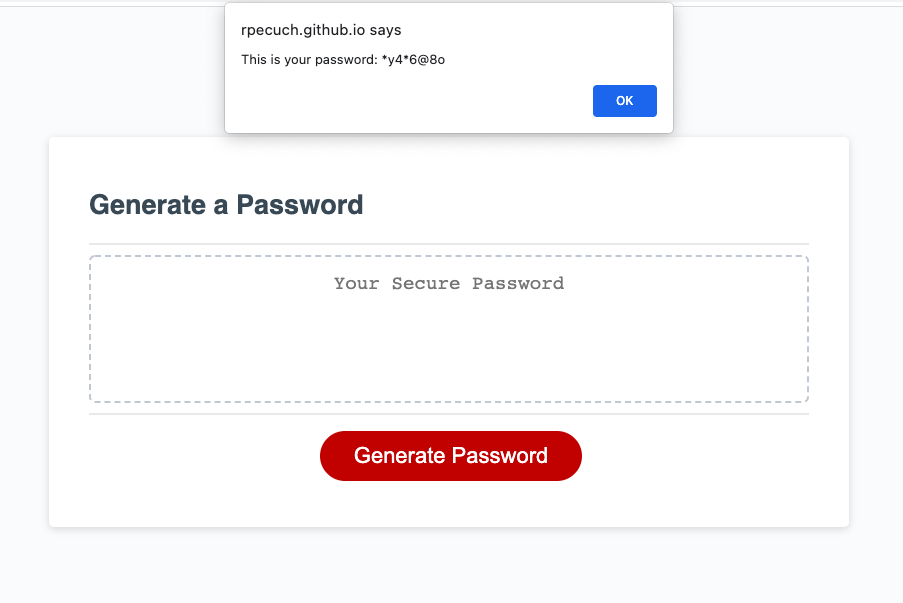
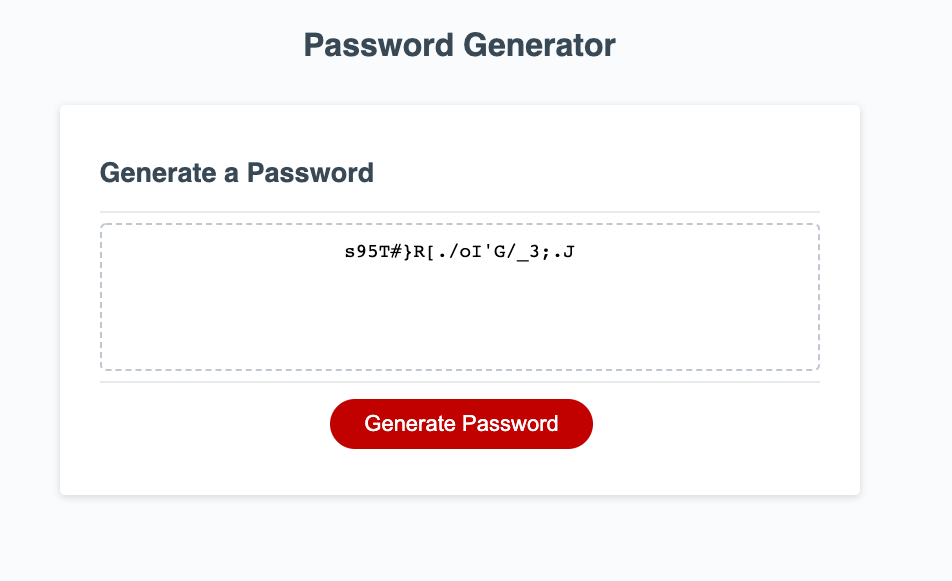
updated readme file with updated screenshot

diff --git a/README.md b/README.md
@@ -26,7 +26,7 @@ The user will then be taken through a series of prompts to establish criteria fo
 
 The generated password will then be displayed.
 
-![window displaying generated password](./assets/images/generated-password.png)
+![box displaying generated password](./assets/images/generated-password.png)
 
 To run the password generator again, simply click the "Generate Password" button again.
 
